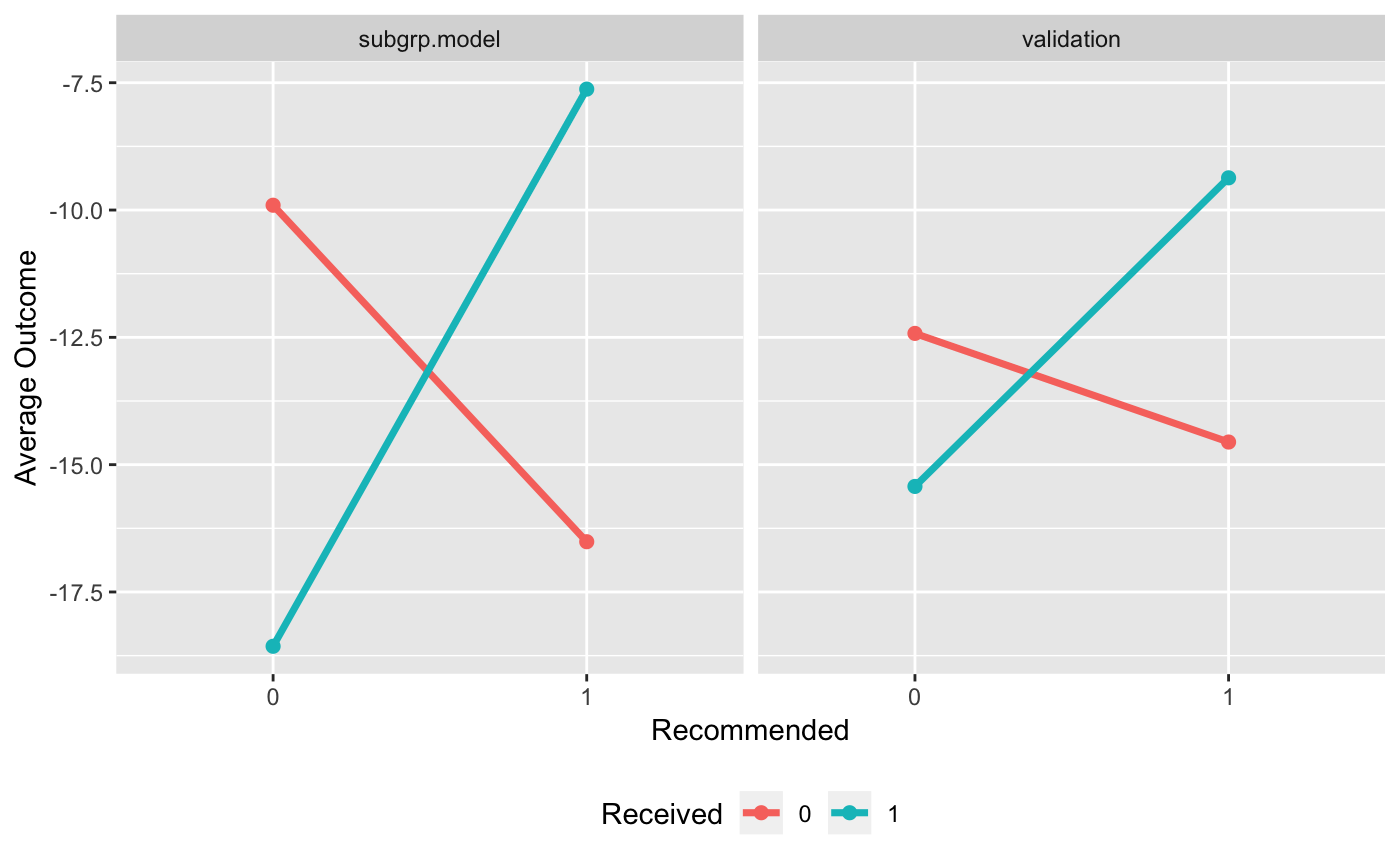
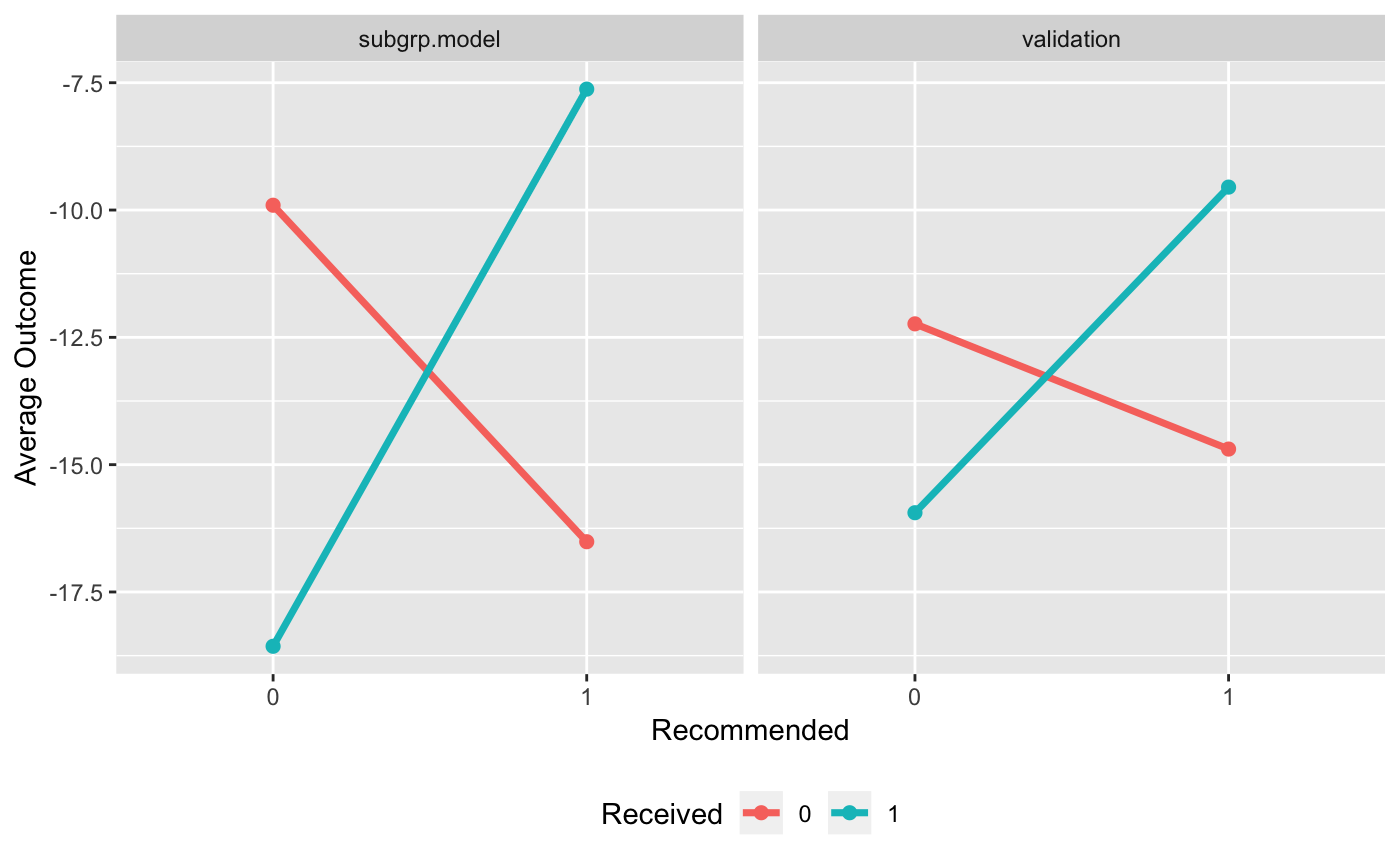
site update

Changed region(s): [[0.645, 0.1873, 0.8907, 0.5931], [0.7986, 0.4682, 0.8907, 0.5306]]

diff --git a/docs/articles/usage_of_the_personalized_package.html b/docs/articles/usage_of_the_personalized_package.html
@@ -82,7 +82,7 @@
       <h1>Usage of the Personalized Package</h1>
                         <h4 class="author">Jared Huling</h4>
             
-            <h4 class="date">2018-09-17</h4>
+            <h4 class="date">2018-09-18</h4>
       
       
       <div class="hidden name"><code>usage_of_the_personalized_package.Rmd</code></div>
@@ -332,21 +332,21 @@ L_W(f_1, \dots, f_{K}) = \frac{1}{n}\sum_{i = 1}^n\frac{\boldsymbol M(Y_i,  \sum
 ## 
 ## Average Test Set Outcomes:
 ##                                Recommended 0
-## Received 0 -12.4224 (SE = 4.1278, n = 49.92)
-## Received 1 -15.4275 (SE = 2.7319, n = 74.44)
-##                              Recommended 1
-## Received 0 -14.5556 (SE = 2.58, n = 50.44)
-## Received 1 -9.3676 (SE = 3.4986, n = 75.2)
+## Received 0 -12.2348 (SE = 4.3752, n = 48.12)
+## Received 1 -15.9437 (SE = 3.2222, n = 73.84)
+##                               Recommended 1
+## Received 0   -14.6937 (SE = 2.8059, n = 51)
+## Received 1 -9.5496 (SE = 3.5861, n = 77.04)
 ## 
 ## Treatment effects conditional on subgroups:
 ## Est of E[Y|T=0,T=Recom]-E[Y|T=/=0,T=Recom] 
-##            3.005 (SE = 4.6473, n = 124.36) 
+##           3.7089 (SE = 5.5846, n = 121.96) 
 ## Est of E[Y|T=1,T=Recom]-E[Y|T=/=1,T=Recom] 
-##           5.1881 (SE = 4.5859, n = 125.64) 
+##           5.1441 (SE = 4.8517, n = 128.04) 
 ## 
 ## Est of 
-## E[Y|Trt received = Trt recom] - E[Y|Trt received =/= Trt recom]:                    
-## 3.442 (SE = 3.3063)</code></pre>
+## E[Y|Trt received = Trt recom] - E[Y|Trt received =/= Trt recom]:                     
+## 3.9569 (SE = 3.4501)</code></pre>
 <p>We can then plot the average outcomes averaged over all replications of the training and testing partition procedure:</p>
 <div class="sourceCode" id="cb10"><pre class="sourceCode r"><code class="sourceCode r"><a class="sourceLine" id="cb10-1" data-line-number="1"><span class="kw">plot</span>(validation)</a></code></pre></div>
 <p><img src="usage_of_the_personalized_package_files/figure-html/plot_validation-1.png" width="700"> From the above plot we can evaluate what the impact of the subgroups is. Among patients for whom the model recommends the control is more effective than the treatment, we can see that those who instead take the treatment are worse off than patients who take the control. Similarly, among patients who are recommended the treatment, patients who take the treatment are better off on average than patients who do not take the treatment.</p>
@@ -520,14 +520,14 @@ L_W(f_1, \dots, f_{K}) = \frac{1}{n}\sum_{i = 1}^n\frac{\boldsymbol M(Y_i,  \sum
 ## 
 ## Average Outcomes:
 ##                 Recommended 0      Recommended 1
-## Received 0 -12.0824 (n = 201) -14.7591 (n = 209)
-## Received 1  -20.517 (n = 288)  -5.5316 (n = 302)
+## Received 0  -7.8948 (n = 200) -18.5592 (n = 210)
+## Received 1 -20.1436 (n = 288)  -5.7529 (n = 302)
 ## 
 ## Treatment effects conditional on subgroups:
 ## Est of E[Y|T=0,T=Recom]-E[Y|T=/=0,T=Recom] 
-##                           8.4346 (n = 489) 
+##                          12.2487 (n = 488) 
 ## Est of E[Y|T=1,T=Recom]-E[Y|T=/=1,T=Recom] 
-##                           9.2275 (n = 511) 
+##                          12.8064 (n = 512) 
 ## 
 ## NOTE: The above average outcomes are biased estimates of
 ##       the expected outcomes conditional on subgroups. 
@@ -537,7 +537,7 @@ L_W(f_1, \dots, f_{K}) = \frac{1}{n}\sum_{i = 1}^n\frac{\boldsymbol M(Y_i,  \sum
 ## 
 ## Benefit score quantiles (f(X) for 1 vs 0): 
 ##       0%      25%      50%      75%     100% 
-## -21.2251  -4.1385   0.1479   4.4585  22.4945 
+## -28.0887  -4.5974   0.2698   5.1089  27.1812 
 ## 
 ## ---------------------------------------------------
 ## 
@@ -545,7 +545,7 @@ L_W(f_1, \dots, f_{K}) = \frac{1}{n}\sum_{i = 1}^n\frac{\boldsymbol M(Y_i,  \sum
 ## E[Y|T=1, X] - E[Y|T=0, X]
 ## 
 ##     Min.  1st Qu.   Median     Mean  3rd Qu.     Max. 
-## -42.4502  -8.2769   0.2958   0.3248   8.9169  44.9889 
+## -56.1774  -9.1948   0.5396   0.3954  10.2178  54.3624 
 ## 
 ## ---------------------------------------------------
 ## The following summary pertains to estimated treatment-covariate interactions:</code></pre>
@@ -554,24 +554,32 @@ L_W(f_1, \dots, f_{K}) = \frac{1}{n}\sum_{i = 1}^n\frac{\boldsymbol M(Y_i,  \sum
 ## Link function: identity 
 ## 
 ## Formula:
-## y ~ -1 + Trt1 + s(V1) + s(V2) + s(V3) + s(V11) + s(V13)
+## y ~ -1 + Trt1 + s(V1) + s(V2) + s(V3) + s(V8) + s(V11) + s(V13) + 
+##     s(V17) + s(V27) + s(V37) + s(V40) + s(V42) + s(V50)
 ## 
 ## Parametric coefficients:
 ##      Estimate Std. Error t value Pr(&gt;|t|)
-## Trt1  0.08914    0.89547     0.1    0.921
+## Trt1  0.05318    0.89386   0.059    0.953
 ## 
 ## Approximate significance of smooth terms:
-##          edf Ref.df     F  p-value    
-## s(V1)  2.894  3.680 2.363 0.078723 .  
-## s(V2)  2.934  3.743 4.947 0.000785 ***
-## s(V3)  1.000  1.000 8.232 0.004201 ** 
-## s(V11) 6.402  7.584 1.925 0.048012 *  
-## s(V13) 1.000  1.000 5.418 0.020126 *  
+##          edf Ref.df      F  p-value    
+## s(V1)  2.975  3.782  2.540 0.057086 .  
+## s(V2)  3.124  3.977  4.774 0.000786 ***
+## s(V3)  1.000  1.000 10.034 0.001583 ** 
+## s(V8)  1.000  1.000  2.357 0.125059    
+## s(V11) 1.000  1.000  7.409 0.006603 ** 
+## s(V13) 1.000  1.000  7.000 0.008278 ** 
+## s(V17) 1.000  1.000  2.115 0.146215    
+## s(V27) 1.000  1.000  2.014 0.156148    
+## s(V37) 1.000  1.000  4.525 0.033650 *  
+## s(V40) 1.000  1.000  1.178 0.278052    
+## s(V42) 1.000  1.000  2.635 0.104822    
+## s(V50) 1.000  1.000  5.072 0.024531 *  
 ## ---
 ## Signif. codes:  0 '***' 0.001 '**' 0.01 '*' 0.05 '.' 0.1 ' ' 1
 ## 
-## R-sq.(adj) =  0.051   Deviance explained =  6.3%
-## GCV =   1520  Scale est. = 1496.9    n = 1000</code></pre>
+## R-sq.(adj) =  0.0607   Deviance explained = 7.23%
+## GCV = 1510.6  Scale est. = 1484.8    n = 1000</code></pre>
 </div>
 <div id="binary-outcomes" class="section level3">
 <h3 class="hasAnchor">
@@ -614,14 +622,14 @@ L_W(f_1, \dots, f_{K}) = \frac{1}{n}\sum_{i = 1}^n\frac{\boldsymbol M(Y_i,  \sum
 ## 
 ## Average Outcomes:
 ##               Recommended 0    Recommended 1
-## Received 0 0.4377 (n = 181) 0.2059 (n = 229)
-## Received 1 0.2293 (n = 270) 0.4367 (n = 320)
+## Received 0 0.4408 (n = 178) 0.1979 (n = 232)
+## Received 1 0.2014 (n = 275) 0.4745 (n = 315)
 ## 
 ## Treatment effects conditional on subgroups:
 ## Est of E[Y|T=0,T=Recom]-E[Y|T=/=0,T=Recom] 
-##                           0.2084 (n = 451) 
+##                           0.2394 (n = 453) 
 ## Est of E[Y|T=1,T=Recom]-E[Y|T=/=1,T=Recom] 
-##                           0.2308 (n = 549) 
+##                           0.2765 (n = 547) 
 ## 
 ## NOTE: The above average outcomes are biased estimates of
 ##       the expected outcomes conditional on subgroups. 
@@ -631,7 +639,7 @@ L_W(f_1, \dots, f_{K}) = \frac{1}{n}\sum_{i = 1}^n\frac{\boldsymbol M(Y_i,  \sum
 ## 
 ## Benefit score quantiles (f(X) for 1 vs 0): 
 ##       0%      25%      50%      75%     100% 
-## -1.31720 -0.24199  0.06729  0.38384  1.48203 
+## -1.68412 -0.33269  0.08148  0.45960  1.65334 
 ## 
 ## ---------------------------------------------------
 ## 
@@ -639,7 +647,7 @@ L_W(f_1, \dots, f_{K}) = \frac{1}{n}\sum_{i = 1}^n\frac{\boldsymbol M(Y_i,  \sum
 ## E[Y|T=1, X] - E[Y|T=0, X]
 ## 
 ##     Min.  1st Qu.   Median     Mean  3rd Qu.     Max. 
-## -0.57743 -0.12041  0.03363  0.02991  0.18960  0.62976</code></pre>
+## -0.68690 -0.16483  0.04072  0.03348  0.22584  0.67868</code></pre>
 </div>
 <div id="count-outcomes" class="section level3">
 <h3 class="hasAnchor">
@@ -688,15 +696,15 @@ L_W(f_1, \dots, f_{K}) = \frac{1}{n}\sum_{i = 1}^n\frac{\boldsymbol M(Y_i,  \sum
 ## Trt recom = 1*I(f(x)&gt;c)+0*I(f(x)&lt;=c) where c is 'cutpoint'
 ## 
 ## Average Outcomes:
-##                 Recommended 0      Recommended 1
-## Received 0 511.0578 (n = 260)  48.5139 (n = 150)
-## Received 1 136.5828 (n = 369) 182.7359 (n = 221)
+##                 Recommended 0     Recommended 1
+## Received 0  92.1092 (n = 254) 30.2408 (n = 156)
+## Received 1 280.5498 (n = 359) 74.1632 (n = 231)
 ## 
 ## Treatment effects conditional on subgroups:
 ## Est of E[Y|T=0,T=Recom]-E[Y|T=/=0,T=Recom] 
-##                          374.475 (n = 629) 
+##                        -188.4406 (n = 613) 
 ## Est of E[Y|T=1,T=Recom]-E[Y|T=/=1,T=Recom] 
-##                          134.222 (n = 371) 
+##                          43.9225 (n = 387) 
 ## 
 ## NOTE: The above average outcomes are biased estimates of
 ##       the expected outcomes conditional on subgroups. 
@@ -706,7 +714,7 @@ L_W(f_1, \dots, f_{K}) = \frac{1}{n}\sum_{i = 1}^n\frac{\boldsymbol M(Y_i,  \sum
 ## 
 ## Benefit score quantiles (f(X) for 1 vs 0): 
 ##       0%      25%      50%      75%     100% 
-## -0.56536 -0.17097 -0.05576  0.06300  0.63843 
+## -0.53494 -0.16578 -0.05368  0.07284  0.67085 
 ## 
 ## ---------------------------------------------------
 ## 
@@ -719,17 +727,19 @@ L_W(f_1, \dots, f_{K}) = \frac{1}{n}\sum_{i = 1}^n\frac{\boldsymbol M(Y_i,  \sum
 ## the survival time
 ## 
 ##    Min. 1st Qu.  Median    Mean 3rd Qu.    Max. 
-##  0.5281  0.9389  1.0573  1.0701  1.1865  1.7601 
+##  0.5113  0.9297  1.0551  1.0638  1.1803  1.7073 
 ## 
 ## ---------------------------------------------------
 ## 
-## 7 out of 49 interactions selected in total by the lasso (cross validation criterion).
+## 8 out of 49 interactions selected in total by the lasso (cross validation criterion).
 ## 
 ## The first estimate is the treatment main effect, which is always selected. 
 ## Any other variables selected represent treatment-covariate interactions.
 ## 
-##           Trt1     V2     V3      V8     V11    V13    V17     V47    V50
-## Estimate 0.049 0.0496 -0.007 -0.0034 -0.0228 0.0075 0.0014 -0.0015 0.0113</code></pre>
+##            Trt1     V1     V2      V3     V4     V8     V11    V12    V13
+## Estimate 0.0415 0.0057 0.0484 -0.0091 -6e-04 -0.001 -0.0218 -1e-04 0.0073
+##             V50
+## Estimate 0.0152</code></pre>
 </div>
 <div id="efficiency-augmentation" class="section level3">
 <h3 class="hasAnchor">

diff --git a/docs/index.html b/docs/index.html
@@ -221,19 +221,19 @@
 ## Trt recom = Trt*I(f(x)&gt;c)+Ctrl*I(f(x)&lt;=c) where c is 'cutpoint'
 ## 
 ## Average Test Set Outcomes:
-##                         Recommended Ctrl            Recommended Trt
-## Received Ctrl -10.85 (SE = 7.88, 20.74%)  -18.64 (SE = 6.5, 25.81%)
-## Received Trt   -15.81 (SE = 5.9, 24.18%) -15.36 (SE = 9.02, 29.26%)
+##                         Recommended Ctrl             Recommended Trt
+## Received Ctrl  -9.47 (SE = 8.58, 20.49%)  -18.36 (SE = 7.57, 25.34%)
+## Received Trt  -17.47 (SE = 6.54, 24.74%) -15.12 (SE = 13.31, 29.43%)
 ## 
 ## Treatment effects conditional on subgroups:
 ## Est of E[Y|T=Ctrl,T=Recom]-E[Y|T=/=Ctrl,T=Recom] 
-##                        4.97 (SE = 11.23, 44.93%) 
+##                           8 (SE = 12.23, 45.22%) 
 ##   Est of E[Y|T=Trt,T=Recom]-E[Y|T=/=Trt,T=Recom] 
-##                        3.27 (SE = 11.73, 55.07%) 
+##                        3.48 (SE = 16.58, 54.78%) 
 ## 
 ## Est of 
-## E[Y|Trt received = Trt recom] - E[Y|Trt received =/= Trt recom]:                
-## 1.2 (SE = 8.77)</code></pre>
+## E[Y|Trt received = Trt recom] - E[Y|Trt received =/= Trt recom]:                 
+## 2.88 (SE = 7.98)</code></pre>
 <p>Visualize subgroup-specific treatment effect estimates across training/testing iterations:</p>
 <div class="sourceCode" id="cb11"><pre class="sourceCode r"><code class="sourceCode r"><a class="sourceLine" id="cb11-1" data-line-number="1"><span class="kw">plot</span>(val.model)</a></code></pre></div>
 <p><img src="articles/vis_val-1.png" width="75%" style="display: block; margin: auto;"></p>

diff --git a/docs/reference/treatment.effects.html b/docs/reference/treatment.effects.html
@@ -230,6 +230,7 @@ i.e. \(E[Y|T=1, X] / E[Y|T=-1, X]\))</p>
 #&gt;  $ delta: num [1:1000] -11.55 -9.8 4.52 -7.03 -26.16 ...
 #&gt;   ..- attr(*, "comparison.trts")= int 1
 #&gt;   ..- attr(*, "reference.trt")= int 0
+#&gt;   ..- attr(*, "trts")= int [1:2] 0 1
 #&gt;  $ gamma: logi NA
 #&gt;  - attr(*, "class")= chr [1:2] "individual_treatment_effects" "list"</div><div class='input'>
 <span class='no'>trt_eff</span></div><div class='output co'>#&gt; Summary of individual treatment effects: 
@@ -251,6 +252,7 @@ i.e. \(E[Y|T=1, X] / E[Y|T=-1, X]\))</p>
 #&gt;  $ gamma: num [1:1000] 0.618 0.772 1.112 0.863 0.393 ...
 #&gt;   ..- attr(*, "comparison.trts")= int 1
 #&gt;   ..- attr(*, "reference.trt")= int 0
+#&gt;   ..- attr(*, "trts")= int [1:2] 0 1
 #&gt;  - attr(*, "class")= chr [1:2] "individual_treatment_effects" "list"</div><div class='input'>
 <span class='no'>trt_eff_c</span></div><div class='output co'>#&gt; Summary of individual treatment effects: 
 #&gt; E[Y|T=1, X] / E[Y|T=0, X]

diff --git a/docs/news/index.html b/docs/news/index.html
@@ -115,7 +115,7 @@
 
     <div id="personalized-0-2-0" class="section level1">
 <h1 class="page-header">
-<a href="#personalized-0-2-0" class="anchor"></a>personalized 0.2.0<small> Unreleased </small>
+<a href="#personalized-0-2-0" class="anchor"></a>personalized 0.2.0<small> 2018-09-18 </small>
 </h1>
 <ul>
 <li>Simplified plot labeling</li>
